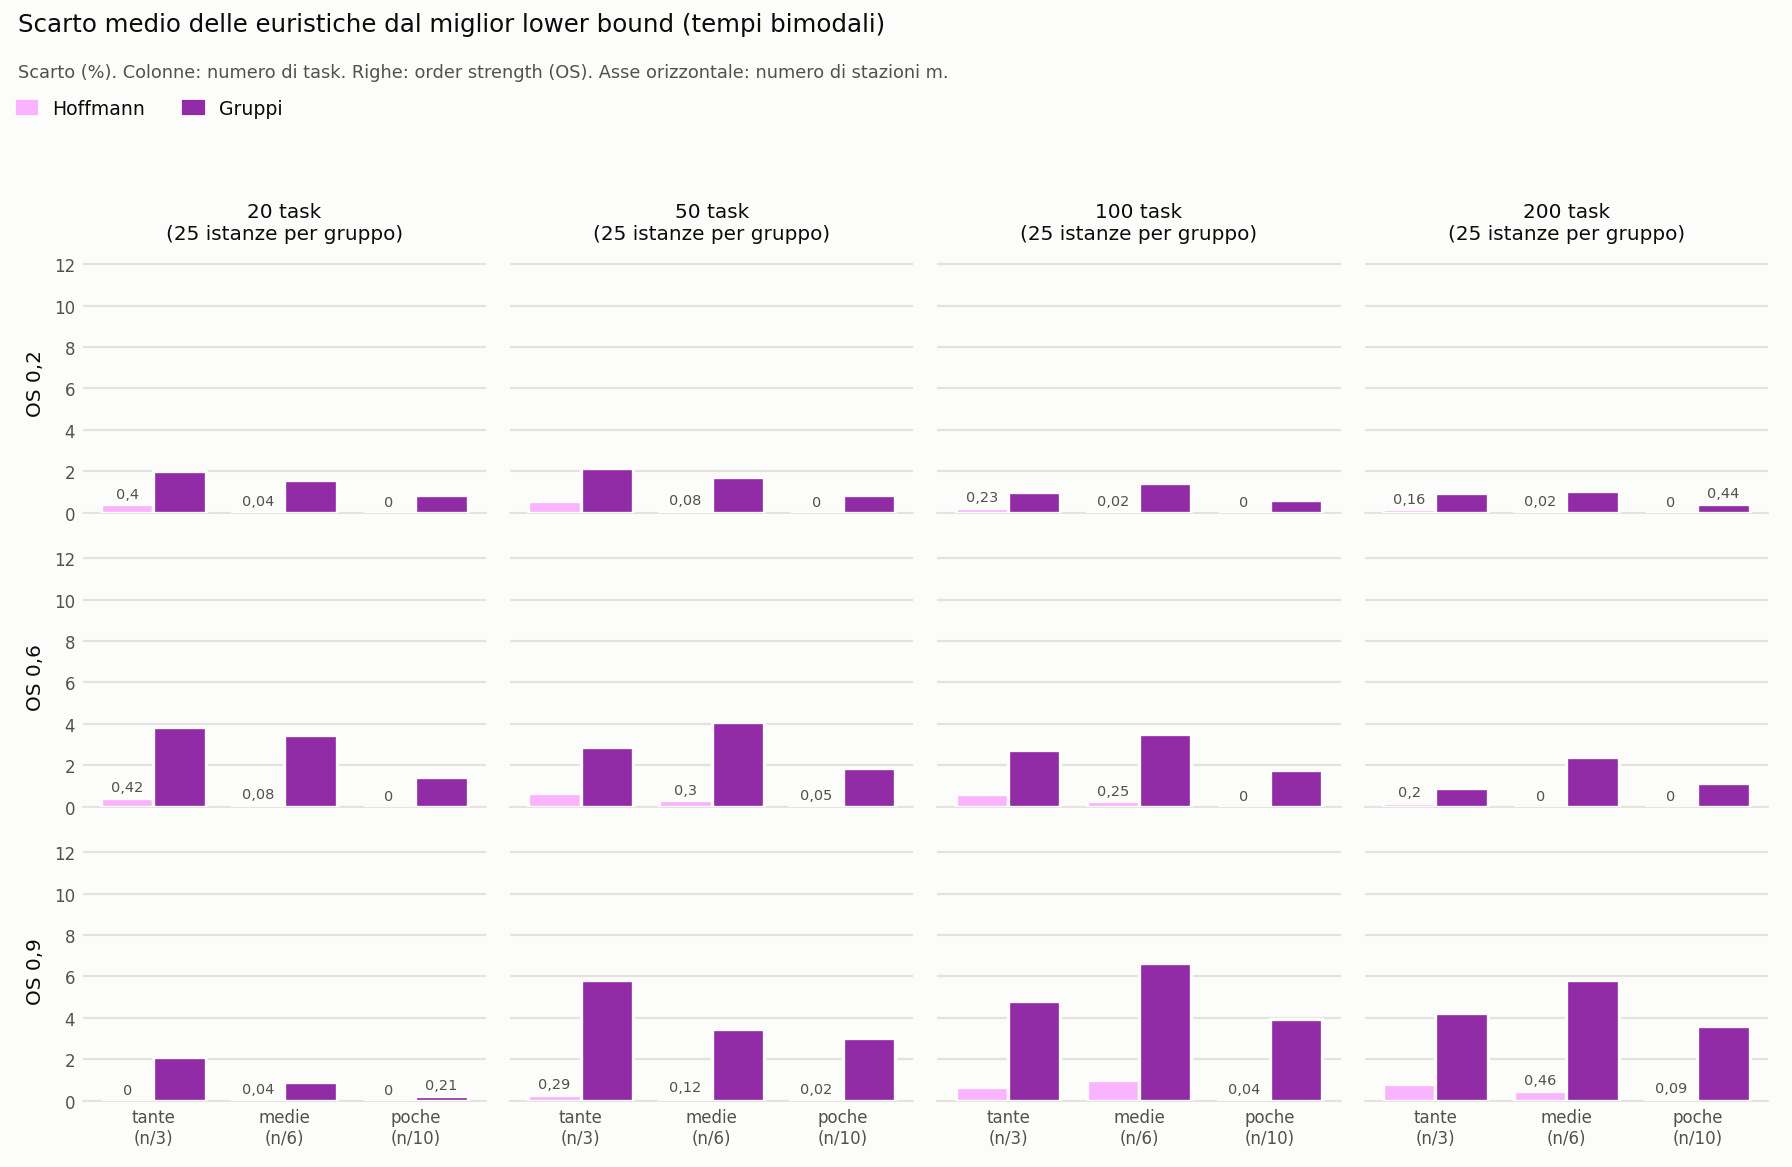
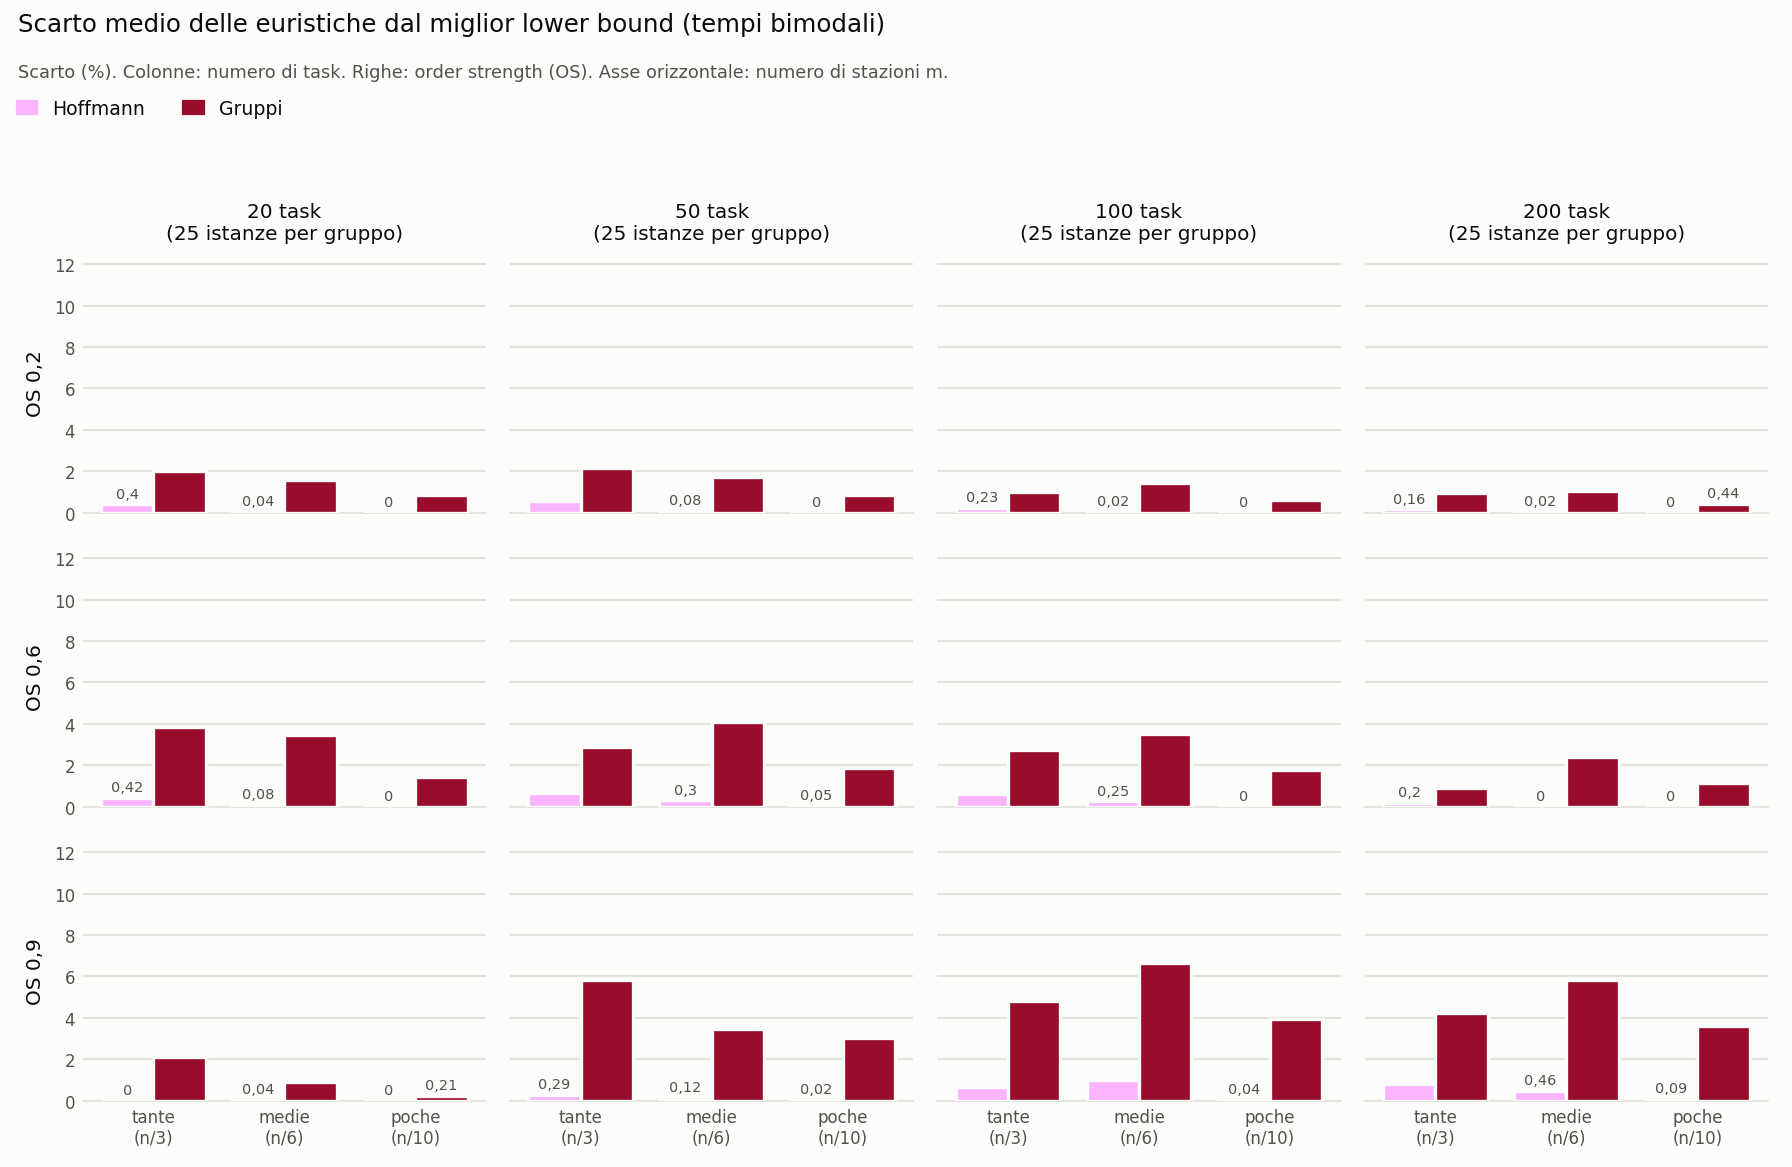
Refusi e modifica colori grafici

diff --git a/scripts/make_figures.py b/scripts/make_figures.py
@@ -63,7 +63,7 @@ METHODS = {
     "patterson_albracht": ("Patterson & Albracht", "#5293e3"),
     "ritt_costa": ("Ritt & Costa", "#25ba85"),
     "hoffmann": ("Hoffmann", "#fab3ff"),
-    "gruppi": ("Gruppi", "#922ba6"),
+    "gruppi": ("Gruppi", "#990c2b"),
 }
 PLI = ["patterson_albracht", "ritt_costa"]
 HEURISTICS = ["hoffmann", "gruppi"]
@@ -71,8 +71,7 @@ HEURISTICS = ["hoffmann", "gruppi"]
 # Il fattore "numero di stazioni" è memorizzato come task per stazione: m = n / valore.
 STATION_LABELS = {3: "tante\n(n/3)", 6: "medie\n(n/6)", 10: "poche\n(n/10)"}
 DIST_LABELS = {"uniform": "uniformi", "bimodal": "bimodali"}
-DIST_COLORS = {"uniform": "#fea8f7", "bimodal": "#7c1c78"}
-
+DIST_COLORS = {"uniform": "#71f116", "bimodal": "#7c1c78"}
 INK, INK_MUTED, GRID, SURFACE = "#0b0b0b", "#52514e", "#e3e2dc", "#fcfcfb"
 
 

diff --git a/scripts/rerun_bound.py b/scripts/rerun_bound.py
@@ -1,5 +1,4 @@
-"""
-Script storico: è servito una volta, sulla campagna con i soli tempi uniformi
+"""Script storico: è servito una volta, sulla campagna con i soli tempi uniformi
 (900 istanze), quando il lower bound è passato da window_lower_bound a
 lower_bound. I risultati di allora sono in results/storico/. Le istanze
 bimodali sono state eseguite dopo, già con il bound completo, quindi lo script

diff --git a/src/bounds.py b/src/bounds.py
@@ -91,8 +91,7 @@ class StationBounds:
 
 
 def simple_lower_bound(instance: ALBInstance) -> int:
-    """
-    Bound combinatori LC1 (carico medio) e LC2 (principio dei cassetti).
+    """Bound combinatori LC1 (carico medio) e LC2 (principio dei cassetti).
 
     - ceil(somma dei tempi / m): il carico medio;
     - per k = 0, 1, 2, ...: tra i k*m + 1 task più lunghi, per il principio

diff --git a/README.md b/README.md
@@ -145,6 +145,9 @@ criterio coincide con quello di Hoffmann, pensato per il SALBP-1. La versione de
 progetto aggiunge la ricerca sul tempo ciclo e un limite di 20.000 nodi per
 stazione, mai raggiunto nella campagna (vedi la docstring di `hoffmann.py`).
 
+
+### Istanze
+
 Generate da `src/generator.py`, che controlla direttamente l'**order strength**
 (OS): la frazione di coppie di task il cui ordine è fissato dalle precedenze,
 dirette o indirette.
@@ -172,13 +175,13 @@ fattori, **25 istanze per combinazione, 72 combinazioni, 1800 istanze**.
 
 Da dove vengono le scelte:
 
-- *`n`* = 20, 50, 100, i livelli di OS e le 25 istanze per combinazione seguono
+- $`n`$ = 20, 50, 100, i livelli di OS e le 25 istanze per combinazione seguono
   Otto, Otto & Scholl (2013).
-- *`n`* = 200 è una scelta del progetto (Otto et al. arrivano a 1000 task).
+- $`n`$ = 200 è una scelta del progetto (Otto et al. arrivano a 1000 task).
   Álvarez-Miranda et al. (2023) osservano che i metodi esatti iniziano a
   fallire intorno ai 100 task: con 200 il disegno ha un livello in cui i PLI
   non chiudono più.
-- Il numero di stazioni in proporzione a *`n`* è una scelta del progetto. Otto et al.
+- Il numero di stazioni in proporzione a $`n`$ è una scelta del progetto. Otto et al.
   controllano la difficoltà attraverso i tempi dei task rispetto al tempo ciclo;
   nel SALBP-2 il tempo ciclo non è un dato, e il numero di stazioni ne fa le veci.
   Álvarez-Miranda et al. (2023) usano lo stesso parametro (numero atteso di task
@@ -276,7 +279,7 @@ passi 1 e 2. L'analisi dei risultati ha mostrato che a OS 0,9 quel bound era
 debole: coincideva con l'ottimo solo nel 14% delle istanze chiuse, contro il 92%
 a OS 0,2. È stato quindi aggiunto il passo 3.
 
-Il bound entra nei metodi solo come valore (estremo inferiore di *c* nei PLI,
+Il bound entra nei metodi solo come valore (estremo inferiore di $c$ nei PLI,
 punto di partenza della ricerca nelle euristiche), quindi sono state rieseguite
 solo le esecuzioni interessate (`scripts/rerun_bound.py`):
 
